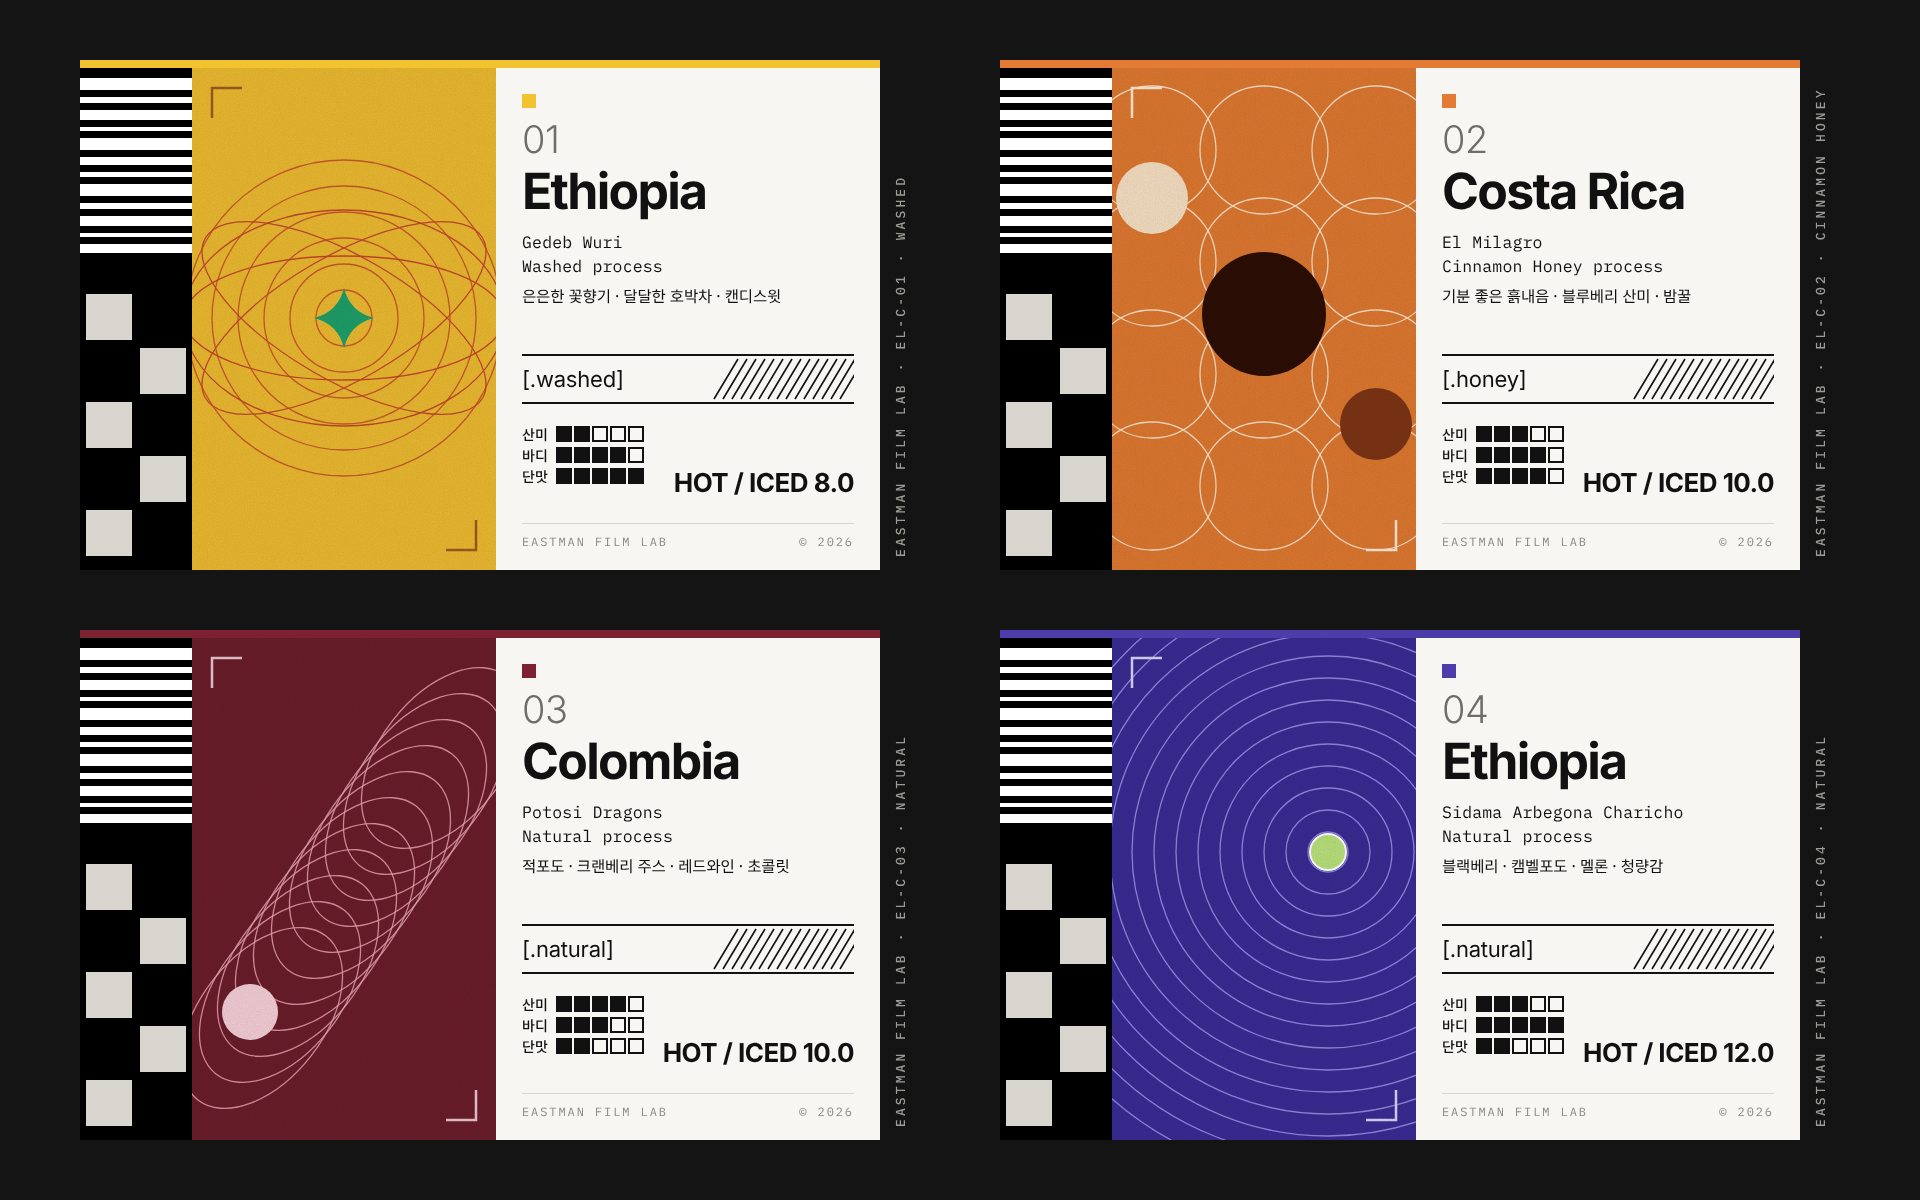
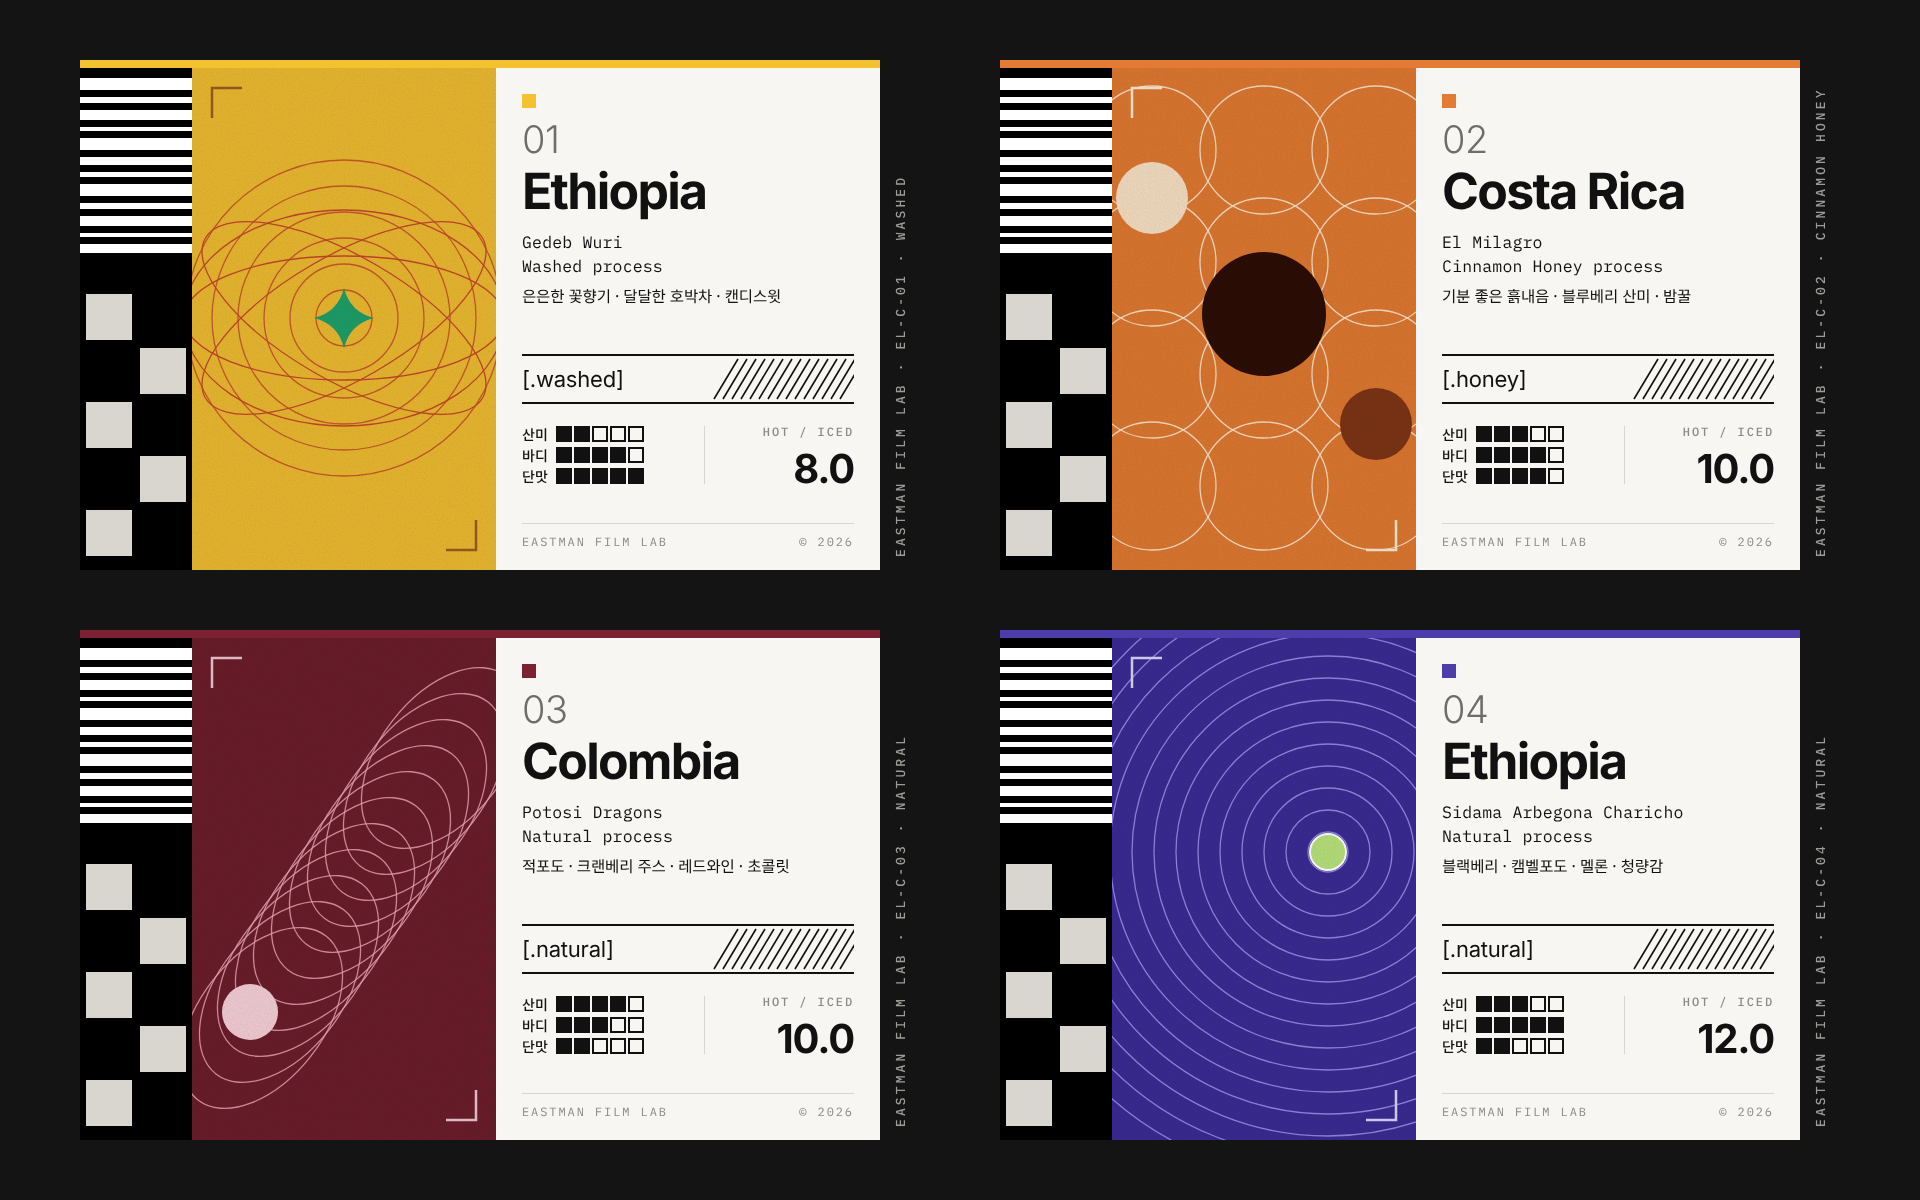
Balance price block against taste meters on coffee menu cards
Price now mirrors the taste block: same top and height, split by a hairline,
with a small HOT / ICED label over a larger price figure.

Claude-Session: https://claude.ai/code/session_01XSL5k4b6fjoQJHoTCyXhAn

diff --git a/designs/coffee-menu/menu-cards.html b/designs/coffee-menu/menu-cards.html
@@ -73,10 +73,14 @@
   .meter { display: flex; gap: 2px; }
   .meter i { width: 16px; height: 16px; border: 2px solid var(--ink); }
   .meter i.on { background: var(--ink); }
+  /* Price sits opposite the taste meters: same top, same height, split by a hairline */
   .price {
-    position: absolute; right: 26px; top: 402px; text-align: right;
-    font: 700 26px/1 var(--sans); letter-spacing: -0.02em;
+    position: absolute; right: 26px; top: 358px; height: 58px; width: 150px;
+    border-left: 1px solid #d6d5d0;
+    display: flex; flex-direction: column; justify-content: space-between; align-items: flex-end;
   }
+  .price small { font: 500 12px/1 var(--mono); letter-spacing: 0.16em; color: var(--muted); }
+  .price b { font: 700 40px/0.74 var(--sans); letter-spacing: -0.03em; }
   .foot {
     position: absolute; left: 26px; right: 26px; bottom: 22px;
     border-top: 1px solid #d6d5d0; padding-top: 12px;
@@ -181,7 +185,7 @@ document.getElementById('board').innerHTML = cards.map((c) => `
           <span>바디</span>${meter(c.taste[1])}
           <span>단맛</span>${meter(c.taste[2])}
         </div>
-        <div class="price">HOT / ICED ${c.price}</div>
+        <div class="price"><small>HOT / ICED</small><b>${c.price}</b></div>
         <div class="foot"><span>EASTMAN FILM LAB</span><span>© 2026</span></div>
       </div>
     </div>
